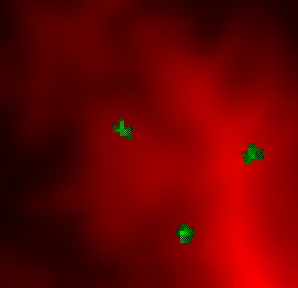
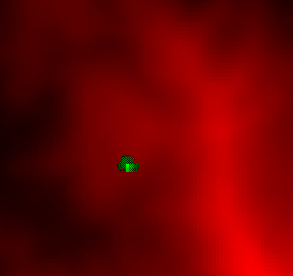
Revert "minor normal distribution bug fix"
This reverts commit 840cd4263fd0c42798e00c76c476e00e5754a81a.

diff --git a/Assets/OnMapSpawn.cs b/Assets/OnMapSpawn.cs
@@ -122,9 +122,6 @@ public class OnMapSpawn : MonoBehaviour
     float homeRangeMultiplier = 2.0f; //default home range multiplier = x1.8
 
     [SerializeField]
-    bool allowElevation = true;
-
-    [SerializeField]
     float hordeMoveRate = 0.4f;
 
     [SerializeField]
@@ -443,11 +440,6 @@ public class OnMapSpawn : MonoBehaviour
     //since the distribution always equal to GridSize, height difference create the theta elevation
     private float distributeElevationLevel(float height1, float height2)
     {
-        if (!allowElevation)
-        {
-            return 1.0f;
-        }
-            
         float degree = findDegreeSlope(GridSize , abs(height1 - height2));
         if (degree > walkable_degree || degree < -walkable_degree)
         {
@@ -597,11 +589,23 @@ public class OnMapSpawn : MonoBehaviour
     //(reference: https://en.wikipedia.org/wiki/Normal_distribution)
     private void normalDistribution(int round)
     {
-        for (int x = 0; x < xgridsize; x++)
+        int at_lat, at_lon;
+        int initial_size = dogdata.Count;
+        for (int i = 0; i < initial_size; i++)
         {
-            for (int y = 0; y < ygridsize; y++)
+            at_lat = dogdata[i].latid;
+            at_lon = dogdata[i].lonid;
+            int right = inSize(at_lon + round, false), 
+                left  = inSize(at_lon - round, false), 
+                down  = inSize(at_lat - round), 
+                up    = inSize(at_lat + round);
+
+            for (int lonid = left; lonid < right; lonid++)
             {
-                centralDistribution(y , x);
+                for (int latid = down; latid < up; latid++)
+                {
+                    centralDistribution(latid , lonid);
+                }
             }
         }
         extractDistribution();
